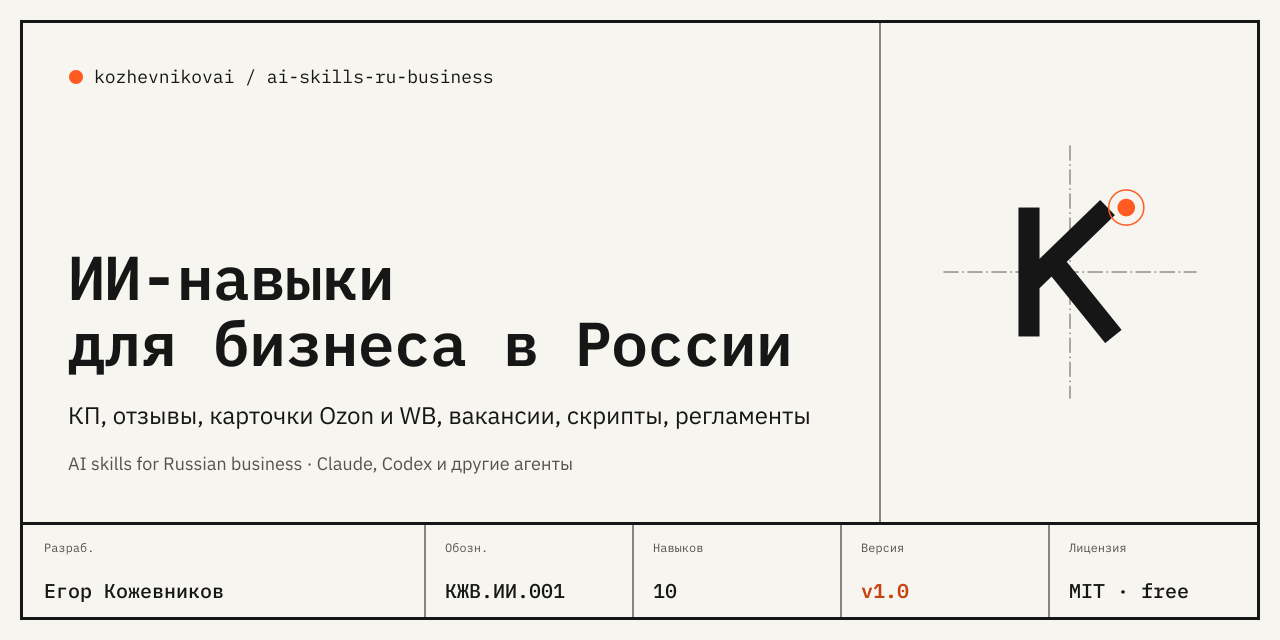
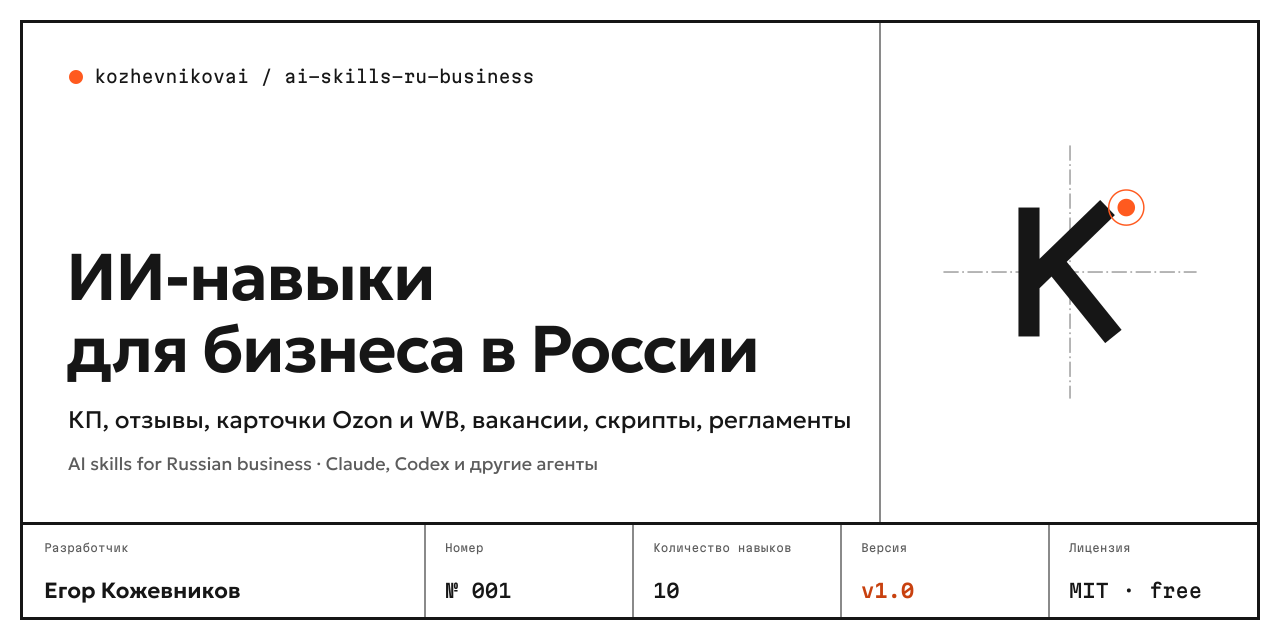
Brand refresh: white palette, new fonts, neutral product numbering

diff --git a/README.md b/README.md
@@ -9,7 +9,7 @@
 
 # ИИ-навыки для бизнеса в России
 
-**КЖВ.ИИ.001** · Готовые навыки (Agent Skills) для Claude, Codex и других ИИ-агентов. Делают ежедневную работу российского бизнеса: коммерческие предложения, ответы на отзывы, карточки для Ozon и WB, вакансии для hh.ru, скрипты продаж, регламенты.
+**№ 001** · Готовые навыки (Agent Skills) для Claude, Codex и других ИИ-агентов. Делают ежедневную работу российского бизнеса: коммерческие предложения, ответы на отзывы, карточки для Ozon и WB, вакансии для hh.ru, скрипты продаж, регламенты.
 
 - **Бесплатно и с открытым кодом** — лицензия MIT.
 - **Под российские реалии** — Яндекс Карты, 2ГИС, Ozon, Wildberries, hh.ru; учитывают 38-ФЗ «О рекламе», 152-ФЗ, ТК РФ.

diff --git a/README.en.md b/README.en.md
@@ -9,7 +9,7 @@
 
 # AI skills for business in Russia
 
-**KZH.AI.001** · Ready-made Agent Skills for Claude, Codex and other AI agents that handle the everyday work of Russian-speaking businesses: sales proposals, replies to reviews, Ozon and Wildberries product cards, hh.ru job postings, sales call scripts and SOPs.
+**No. 001** · Ready-made Agent Skills for Claude, Codex and other AI agents that handle the everyday work of Russian-speaking businesses: sales proposals, replies to reviews, Ozon and Wildberries product cards, hh.ru job postings, sales call scripts and SOPs.
 
 - **Free and open source** — MIT license.
 - **Built for the Russian market** — Yandex Maps, 2GIS, Ozon, Wildberries, hh.ru; respects Russian advertising (38-FZ), personal data (152-FZ) and labor law.
